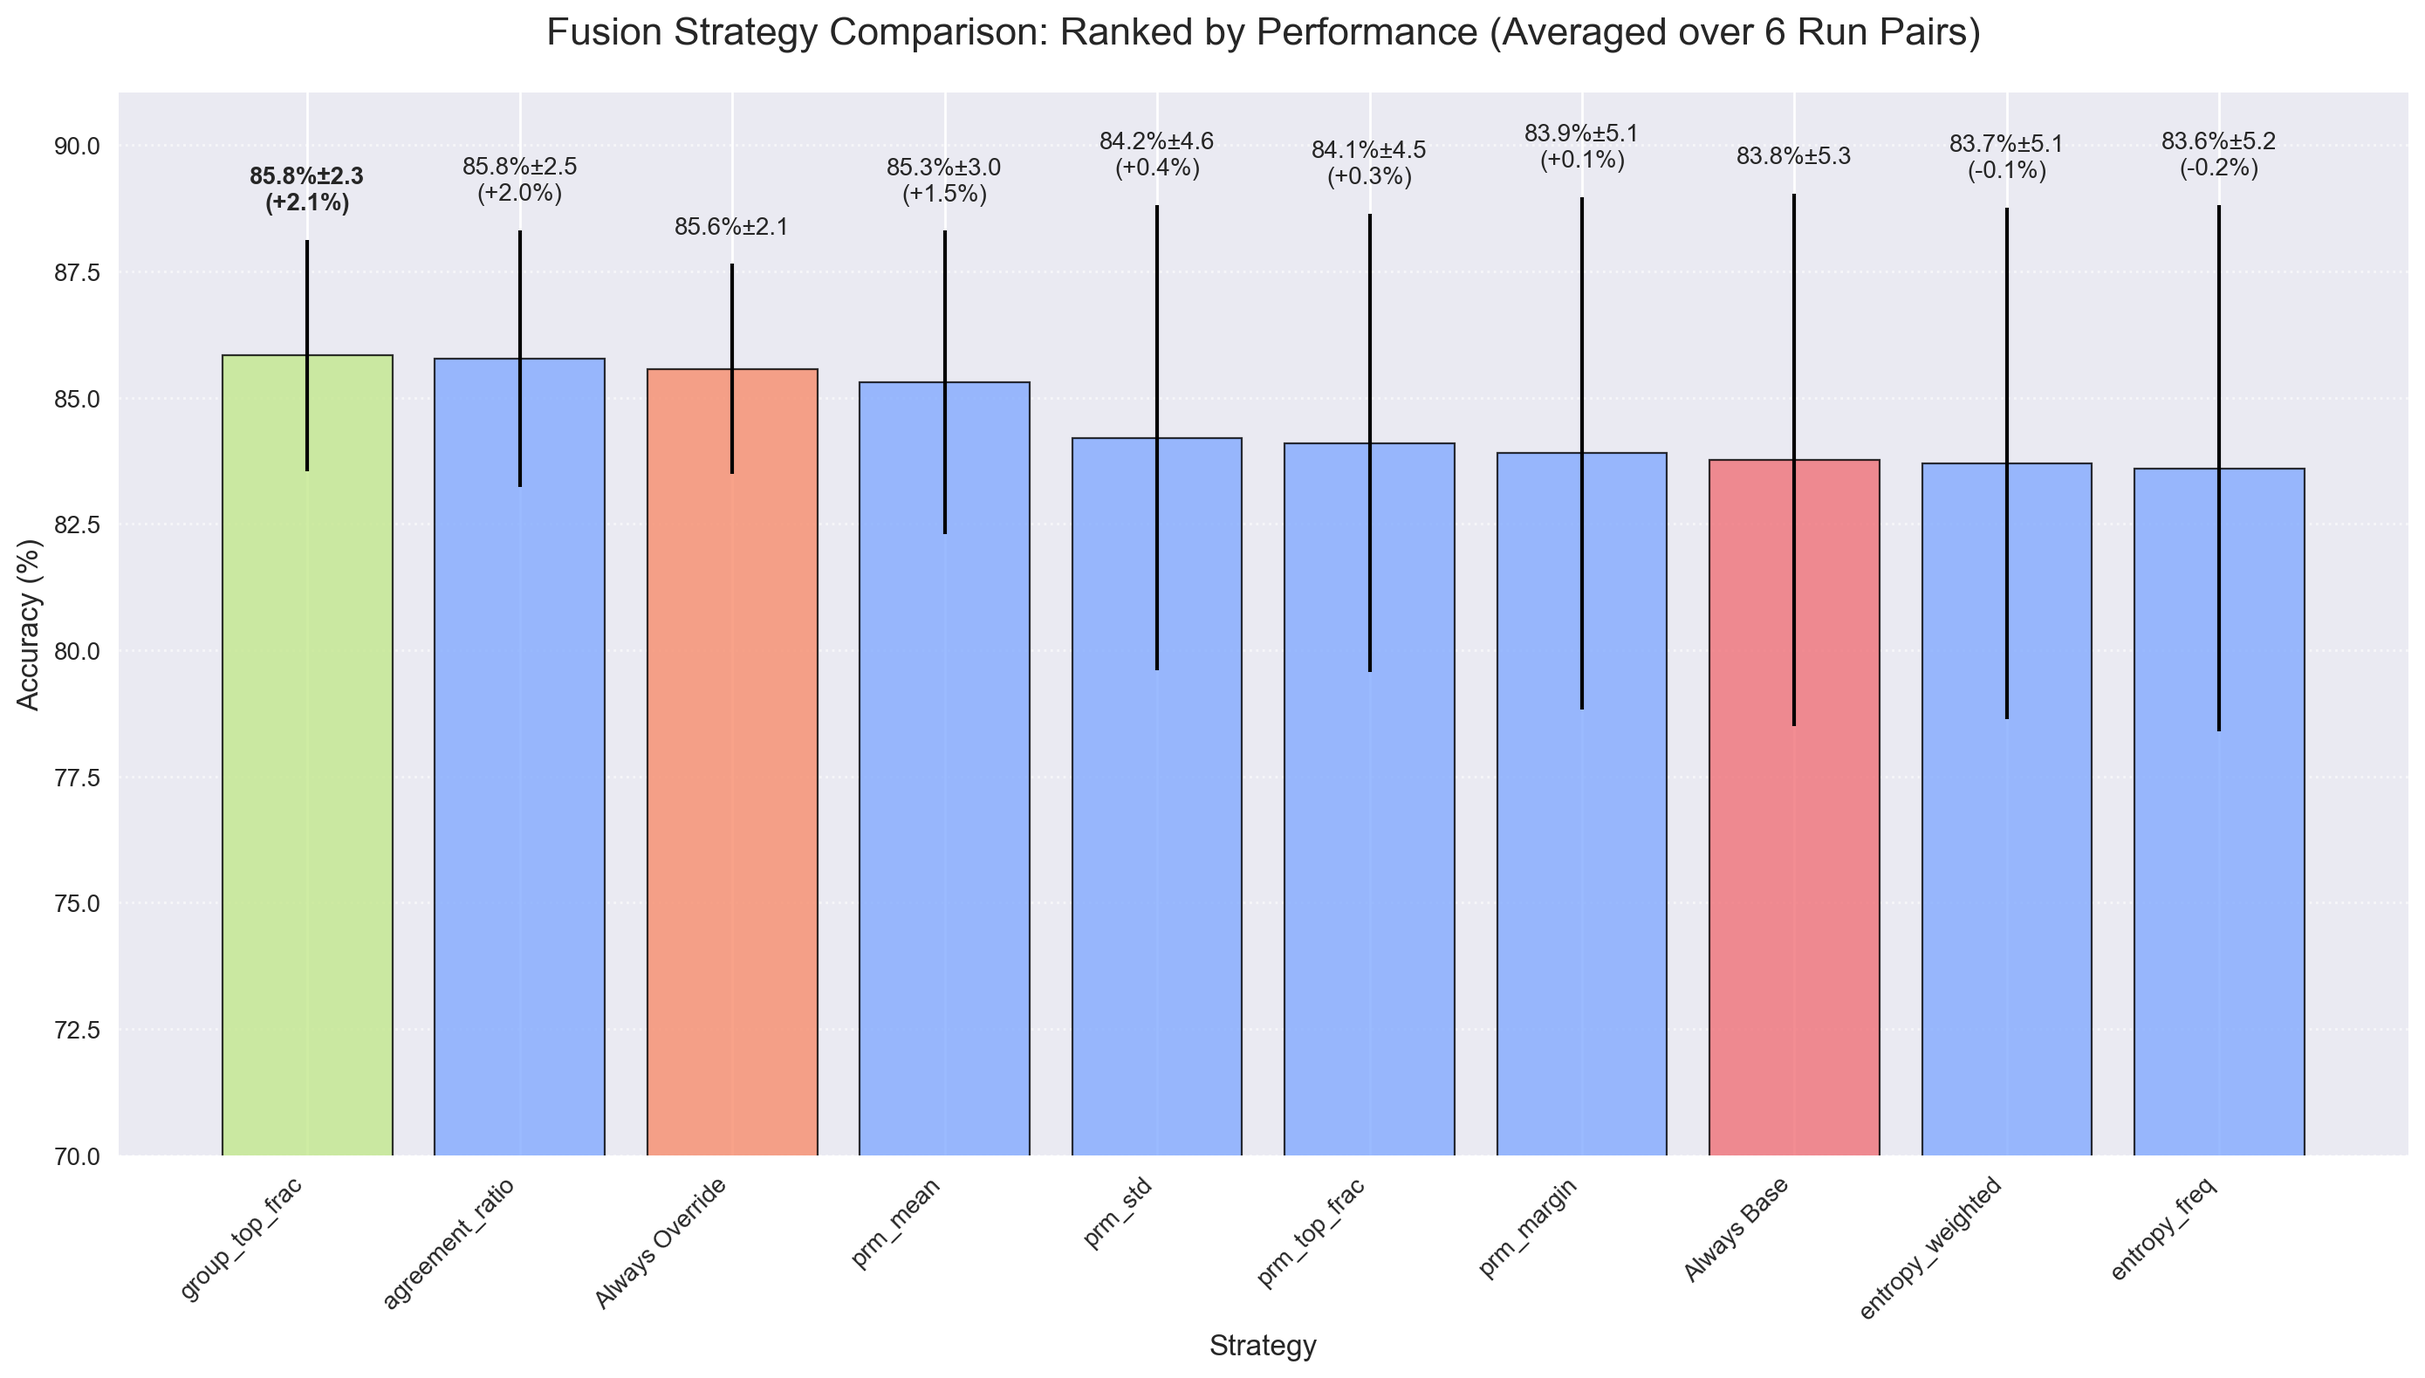
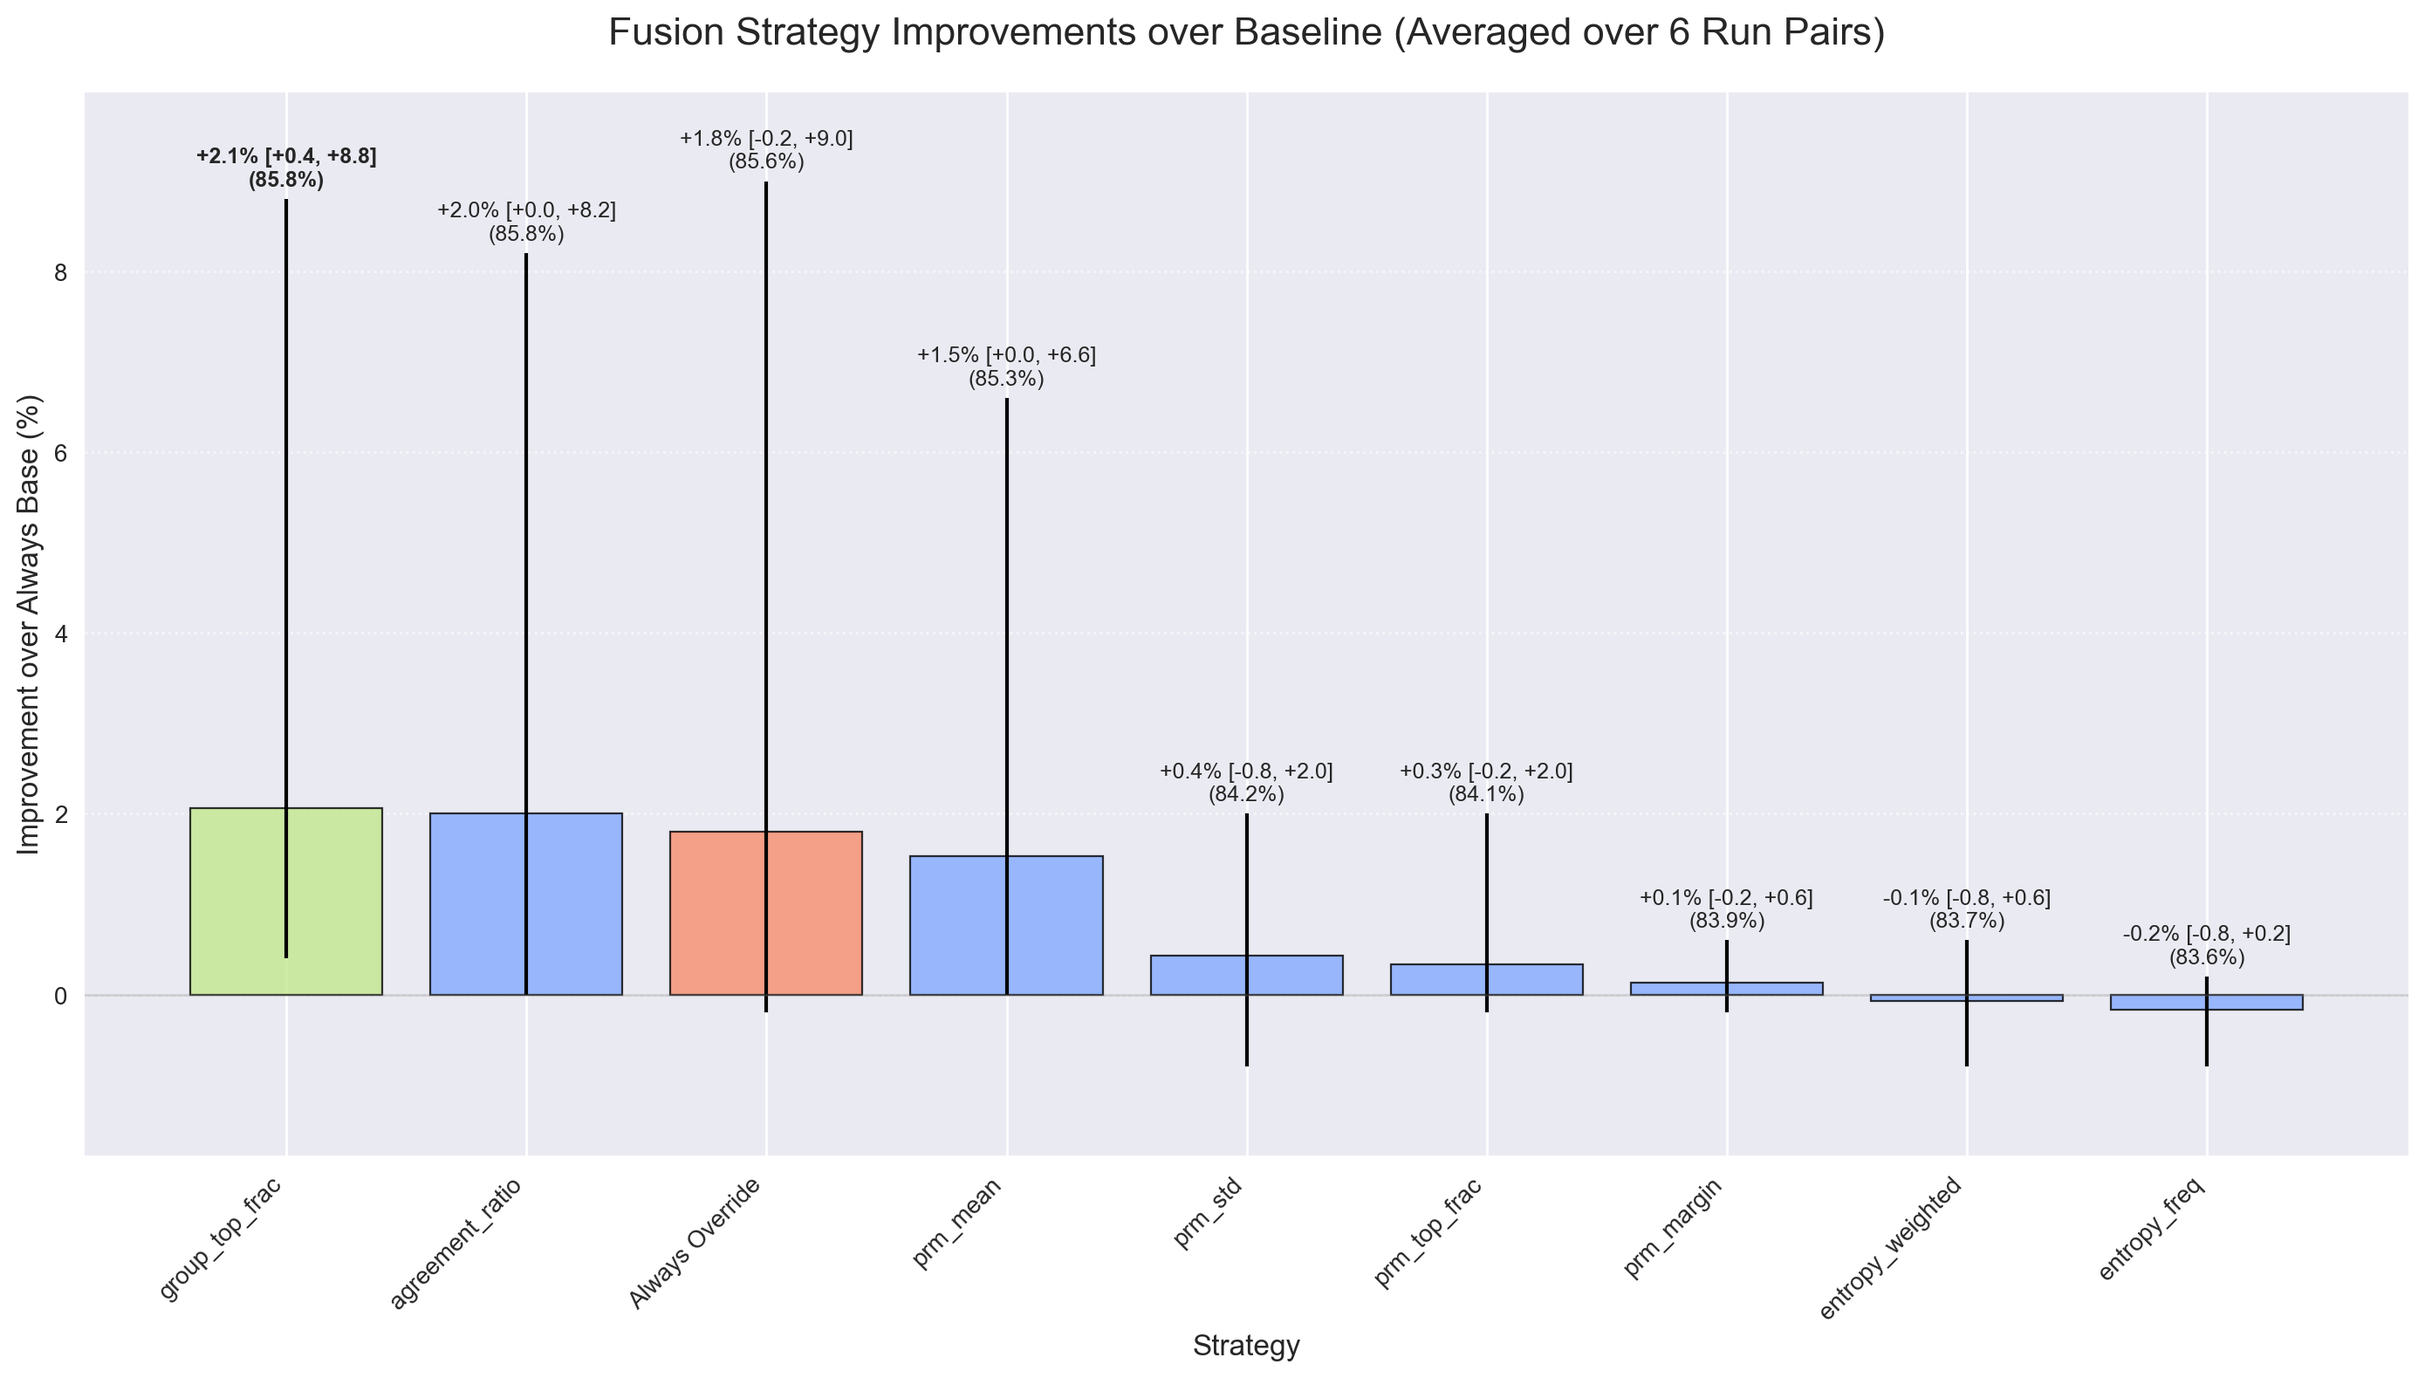
progress

diff --git a/scripts/fusion/quick_analysis.py b/scripts/fusion/quick_analysis.py
@@ -3,10 +3,12 @@
 
 import json
 import sys
+from collections import defaultdict
 from pathlib import Path
 from typing import Any, Dict, List, Tuple
 
 import matplotlib.pyplot as plt
+import numpy as np
 
 # Add parent directories to path
 sys.path.append(str(Path(__file__).parent.parent.parent))
@@ -102,11 +104,6 @@ def create_comparison_chart(results_summary: Dict[str, Any], output_dir: Path) -
         )
 
     # Formatting
-    ax.set_title(
-        "Fusion Strategy Comparison: Smart Selection vs Naive Baselines",
-        fontsize=16,
-        pad=20,
-    )
     ax.set_xlabel("Confidence Metric", fontsize=12)
     ax.set_ylabel("Accuracy (%)", fontsize=12)
     ax.set_xticks(range(len(metrics)))
@@ -130,57 +127,47 @@ def create_averaged_comparison_chart(
     results_summary: Dict[str, Any], output_dir: Path
 ) -> None:
     """Create a comparison chart showing averaged results across multiple run pairs with error bars."""
-    import numpy as np
 
     # Get averaged smart fusion results
     all_smart = results_summary["averaged_results"]
     best_metric = results_summary["best_metric"]
 
-    # Calculate always override statistics from individual pairs
-    always_base_values = [
-        r["always_base"] for r in results_summary["individual_pair_results"]
-    ]
-    always_override_values = [
-        r["always_rerun_when_possible"]
+    # Combine strategies - EXCLUDE Always Base since it's always 0% improvement
+    # Calculate min/max for Always Override from individual pairs
+    override_improvements = [
+        r["always_rerun_when_possible"] - r["always_base"]
         for r in results_summary["individual_pair_results"]
     ]
 
-    always_base_avg = np.mean(always_base_values)
-    always_base_std = np.std(always_base_values)
-    always_override_avg = np.mean(always_override_values)
-    always_override_std = np.std(always_override_values)
-
-    # Combine all strategies and sort by performance
     all_strategies = [
         {
-            "name": "Always Base",
-            "accuracy": always_base_avg,
-            "std": always_base_std,
-            "type": "baseline",
-        },
-        {
             "name": "Always Override",
-            "accuracy": always_override_avg,
-            "std": always_override_std,
+            "improvement": results_summary["always_override_improvement"],
+            "std": results_summary["always_override_improvement_std"],
+            "min": min(override_improvements),
+            "max": max(override_improvements),
             "type": "baseline",
+            "accuracy": results_summary["always_rerun_when_possible"],
         },
     ] + [
         {
             "name": r["metric"],
-            "accuracy": r["accuracy"],
-            "std": r["std"],
+            "improvement": r["improvement"],  # Already calculated correctly
+            "std": r["std"],  # Standard deviation of improvements across pairs
+            "min": r["min"],  # Already calculated correctly
+            "max": r["max"],  # Already calculated correctly
             "type": "smart",
+            "accuracy": r["accuracy"],
         }
         for r in all_smart
     ]
 
-    # Sort by accuracy (highest first)
-    all_strategies.sort(key=lambda x: x["accuracy"], reverse=True)
+    # Sort by improvement (highest first)
+    all_strategies.sort(key=lambda x: x["improvement"], reverse=True)
 
     # Extract sorted data
     metrics = [s["name"] for s in all_strategies]
-    accuracies = [s["accuracy"] for s in all_strategies]
-    std_devs = [s["std"] for s in all_strategies]
+    improvements = [s["improvement"] for s in all_strategies]
 
     # Color bars based on strategy type and performance
     bar_colors = []
@@ -200,64 +187,82 @@ def create_averaged_comparison_chart(
     plt.style.use("seaborn-v0_8")
     fig, ax = plt.subplots(figsize=(14, 8))  # Slightly wider for more bars
 
-    # Bar chart for all strategies with black outlines and error bars
+    # Calculate asymmetric error bars (min/max range)
+    lower_errors = [
+        imp - strategy["min"] for imp, strategy in zip(improvements, all_strategies)
+    ]
+    upper_errors = [
+        strategy["max"] - imp for imp, strategy in zip(improvements, all_strategies)
+    ]
+
+    # Bar chart for all strategies with black outlines and min/max error bars
     bars = ax.bar(
         range(len(metrics)),
-        accuracies,
+        improvements,
         color=bar_colors,
         alpha=0.8,
         edgecolor="black",
         linewidth=0.8,
-        yerr=std_devs,
+        yerr=[lower_errors, upper_errors],
         capsize=5,
         error_kw={"color": "black", "linewidth": 1.5},
     )
 
     # Add value labels on bars
-    for i, (bar, acc, std, metric) in enumerate(
-        zip(bars, accuracies, std_devs, metrics)
+    for i, (bar, improvement, metric, strategy) in enumerate(
+        zip(bars, improvements, metrics, all_strategies)
     ):
         height = bar.get_height()
 
-        # Different label format for baseline vs smart strategies
-        if metric in ["Always Base", "Always Override"]:
-            label = f"{acc:.1f}%±{std:.1f}"
-        else:
-            diff = acc - always_base_avg
-            label = f"{acc:.1f}%±{std:.1f}\n({diff:+.1f}%)"
+        # Show improvement with accuracy in parentheses
+        min_val = strategy["min"]
+        max_val = strategy["max"]
+        label = f"{improvement:+.1f}% [{min_val:+.1f}, {max_val:+.1f}]\n({strategy['accuracy']:.1f}%)"
 
-        # Bold for best smart metric
-        fontweight = "bold" if metric == best_metric else "normal"
+        # Bold for best performing strategy
+        fontweight = "bold" if i == 0 else "normal"  # First in sorted list is best
+
+        # Position label above error bar
+        upper_error = strategy["max"] - improvement
+        y_pos = height + upper_error + 0.1
+
         ax.text(
             bar.get_x() + bar.get_width() / 2.0,
-            height + std + 0.5,  # Account for error bar
+            y_pos,
             label,
             ha="center",
             va="bottom",
-            fontsize=10,
+            fontsize=9,  # Slightly smaller to fit more text
             fontweight=fontweight,
         )
 
     # Formatting
     num_pairs = results_summary["experiment_info"]["num_pairs"]
     ax.set_title(
-        f"Fusion Strategy Comparison: Ranked by Performance (Averaged over {num_pairs} Run Pairs)",
+        f"Fusion Strategy Improvements over Baseline (Averaged over {num_pairs} Run Pairs)",
         fontsize=16,
         pad=20,
     )
     ax.set_xlabel("Strategy", fontsize=12)
-    ax.set_ylabel("Accuracy (%)", fontsize=12)
+    ax.set_ylabel("Improvement over Always Base (%)", fontsize=12)
     ax.set_xticks(range(len(metrics)))
     ax.set_xticklabels(metrics, rotation=45, ha="right")
 
-    # Set y-limits to focus on relevant range (60% to 100%)
-    min_acc = min(accuracies)
-    max_with_error = max(acc + std for acc, std in zip(accuracies, std_devs))
+    # Set y-limits to focus on improvement range with min/max error bars
+    all_mins = [s["min"] for s in all_strategies]
+    all_maxs = [s["max"] for s in all_strategies]
 
-    # Set reasonable y-limits: start from 60% or slightly below minimum, up to max + error bars
-    y_min = min(70, min_acc - 2)
-    y_max = max_with_error + 2
+    overall_min = min(all_mins + [0])  # Include 0 for reference line
+    overall_max = max(all_maxs)
+
+    # Add some padding and ensure we show the zero line
+    y_padding = max(0.2, (overall_max - overall_min) * 0.1)
+    y_min = overall_min - y_padding
+    y_max = overall_max + y_padding
     ax.set_ylim(y_min, y_max)
+
+    # Add horizontal line at y=0 (no improvement)
+    ax.axhline(y=0, color="gray", linestyle="-", alpha=0.3, linewidth=1)
     ax.grid(axis="y", linestyle=":", alpha=0.6)
 
     plt.tight_layout()
@@ -656,10 +661,8 @@ def get_fusion_run_pairs() -> List[Tuple[str, str]]:
 
 def run_multi_pair_analysis() -> Dict[str, Any]:
     """Run fusion analysis over multiple run pairs and average results."""
-    from collections import defaultdict
 
-    import numpy as np
-
+    # run_pairs = get_fusion_run_pairs()[:2]
     run_pairs = get_fusion_run_pairs()
     print(f"Running fusion analysis over {len(run_pairs)} run pairs...")
 
@@ -689,10 +692,13 @@ def run_multi_pair_analysis() -> Dict[str, Any]:
             analysis = analyze_strategies(results, base_run, rerun_id)
             all_pair_results.append(analysis)
 
-            # Store smart results by metric
+            # Store smart results by metric with their improvements over baseline for this pair
             for smart_result in analysis["all_smart_results"]:
                 metric = smart_result["metric"]
-                all_smart_results_by_metric[metric].append(smart_result["accuracy"])
+                improvement = (
+                    smart_result["accuracy"] - analysis["always_base"]
+                )  # Improvement for THIS pair
+                all_smart_results_by_metric[metric].append(improvement)
 
         except Exception as e:
             print(f"Error processing pair {base_run}->{rerun_id}: {e}")
@@ -701,32 +707,44 @@ def run_multi_pair_analysis() -> Dict[str, Any]:
     if not all_pair_results:
         raise ValueError("No valid results found!")
 
-    # Calculate averages and statistics
+    # Calculate improvement statistics (this is the key fix!)
     averaged_results = []
+    always_base_avg = np.mean([r["always_base"] for r in all_pair_results])
+
     for metric in all_smart_results_by_metric:
-        accuracies = all_smart_results_by_metric[metric]
-        if len(accuracies) > 0:
+        improvements = all_smart_results_by_metric[
+            metric
+        ]  # These are already improvements per pair
+        if len(improvements) > 0:
+            avg_improvement = np.mean(improvements)
+            std_improvement = np.std(improvements)  # Standard deviation of IMPROVEMENTS
             averaged_results.append(
                 {
                     "metric": metric,
-                    "accuracy": np.mean(accuracies),
-                    "std": np.std(accuracies),
-                    "min": np.min(accuracies),
-                    "max": np.max(accuracies),
-                    "count": len(accuracies),
-                    "vs_base": np.mean(accuracies)
-                    - np.mean([r["always_base"] for r in all_pair_results]),
+                    "improvement": avg_improvement,
+                    "std": std_improvement,
+                    "min": np.min(improvements),
+                    "max": np.max(improvements),
+                    "count": len(improvements),
+                    # Calculate average absolute accuracy for display
+                    "accuracy": avg_improvement + always_base_avg,
                 }
             )
 
-    # Sort by average accuracy
-    averaged_results.sort(key=lambda x: x["accuracy"], reverse=True)
+    # Sort by average improvement
+    averaged_results.sort(key=lambda x: x["improvement"], reverse=True)
 
-    # Calculate baseline averages
-    always_base_avg = np.mean([r["always_base"] for r in all_pair_results])
+    # Calculate baseline averages and improvement stats for always override
     always_rerun_avg = np.mean(
         [r["always_rerun_when_possible"] for r in all_pair_results]
     )
+
+    # Calculate improvement of always override over always base for each pair
+    always_override_improvements = [
+        r["always_rerun_when_possible"] - r["always_base"] for r in all_pair_results
+    ]
+    always_override_improvement_avg = np.mean(always_override_improvements)
+    always_override_improvement_std = np.std(always_override_improvements)
 
     return {
         "experiment_info": {
@@ -742,6 +760,8 @@ def run_multi_pair_analysis() -> Dict[str, Any]:
         "averaged_results": averaged_results,
         "always_base": always_base_avg,
         "always_rerun_when_possible": always_rerun_avg,
+        "always_override_improvement": always_override_improvement_avg,
+        "always_override_improvement_std": always_override_improvement_std,
         "best_metric": averaged_results[0]["metric"] if averaged_results else None,
         "individual_pair_results": all_pair_results,
     }
@@ -782,28 +802,31 @@ def print_multi_pair_summary(analysis: Dict[str, Any]) -> None:
     print(f"Analyzed {exp['num_pairs']} run pairs")
 
     print("\nAVERAGED STRATEGY RESULTS:")
-    print(f"  Always Base (avg): {analysis['always_base']:.2f}%")
-    print(f"  Always Override (avg): {analysis['always_rerun_when_possible']:.2f}%")
+    print(f"  Always Base (avg): {analysis['always_base']:.2f}% (baseline)")
+    print(
+        f"  Always Override (avg): {analysis['always_rerun_when_possible']:.2f}% ({analysis['always_override_improvement']:+.2f}%±{analysis['always_override_improvement_std']:.2f})"
+    )
 
     print(f"\nSMART FUSION RESULTS (averaged over {exp['num_pairs']} pairs):")
-    print(
-        f"{'Metric':<20} {'Accuracy':<10} {'Std':<8} {'Min':<8} {'Max':<8} {'vs Base':<10}"
-    )
-    print("-" * 70)
+    print(f"{'Metric':<20} {'Improvement':<12} {'Range':<15} {'Accuracy':<10}")
+    print("-" * 65)
 
     for result in analysis["averaged_results"]:
+        range_str = f"[{result['min']:+.2f}, {result['max']:+.2f}]"
         print(
-            f"{result['metric']:<20} {result['accuracy']:<10.2f} {result['std']:<8.2f} "
-            f"{result['min']:<8.2f} {result['max']:<8.2f} {result['vs_base']:<+10.2f}"
+            f"{result['metric']:<20} {result['improvement']:<+12.2f} {range_str:<15} {result['accuracy']:<10.2f}"
         )
 
     best = analysis["averaged_results"][0] if analysis["averaged_results"] else None
     if best:
         print(
-            f"\nBEST METRIC: {best['metric']} with {best['accuracy']:.2f}% avg accuracy"
+            f"\nBEST METRIC: {best['metric']} with {best['improvement']:+.2f}% avg improvement"
         )
-        improvement = best["accuracy"] - analysis["always_rerun_when_possible"]
-        print(f"Improvement over always override: {improvement:+.2f}%")
+        print(f"Absolute accuracy: {best['accuracy']:.2f}%")
+        improvement_over_override = (
+            best["improvement"] - analysis["always_override_improvement"]
+        )
+        print(f"Improvement over always override: {improvement_over_override:+.2f}%")
 
 
 if __name__ == "__main__":
